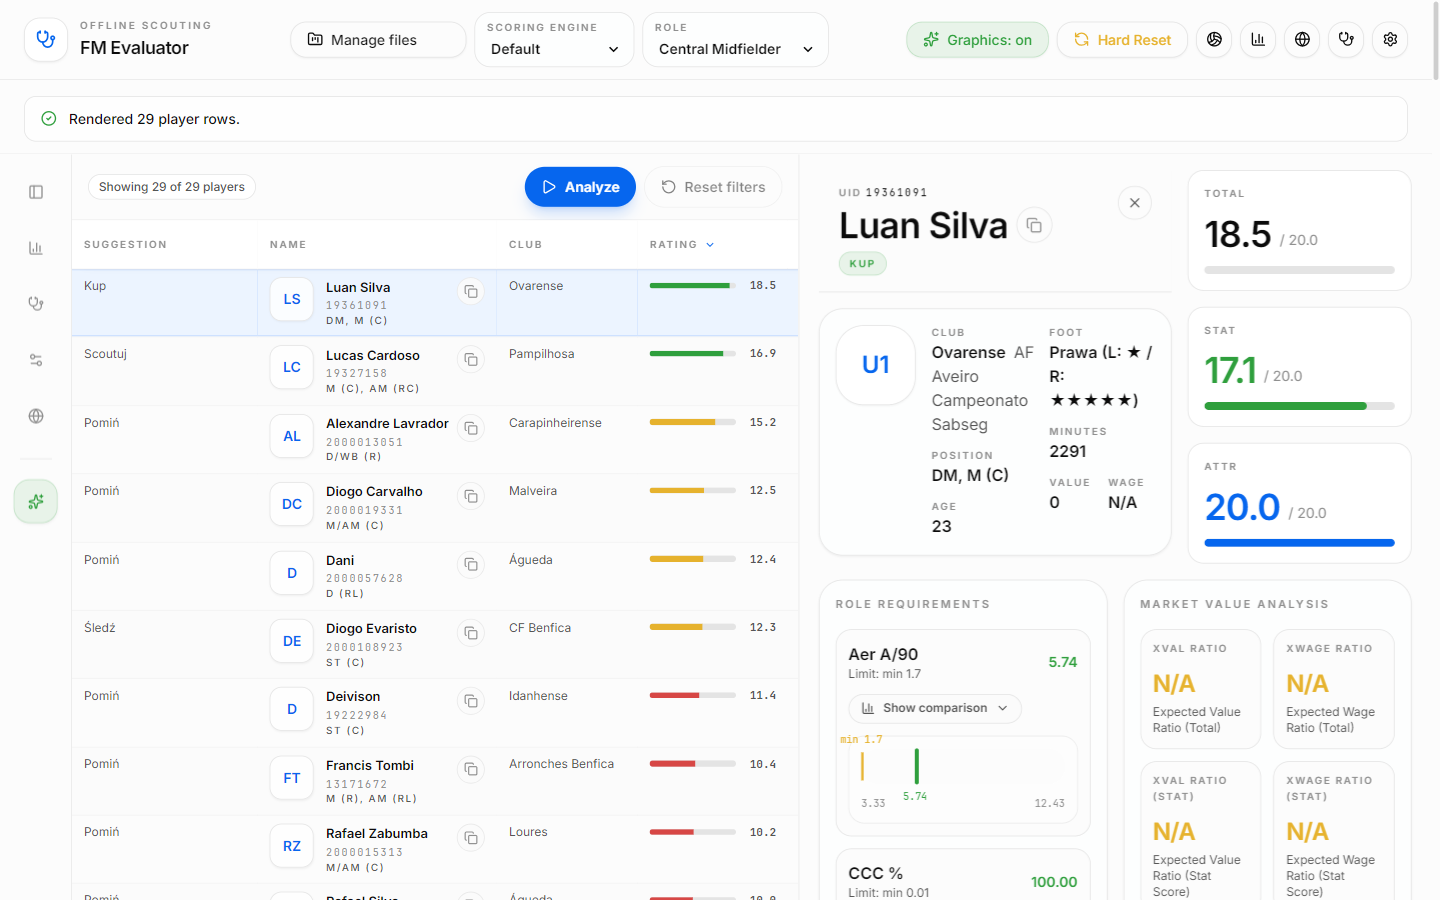
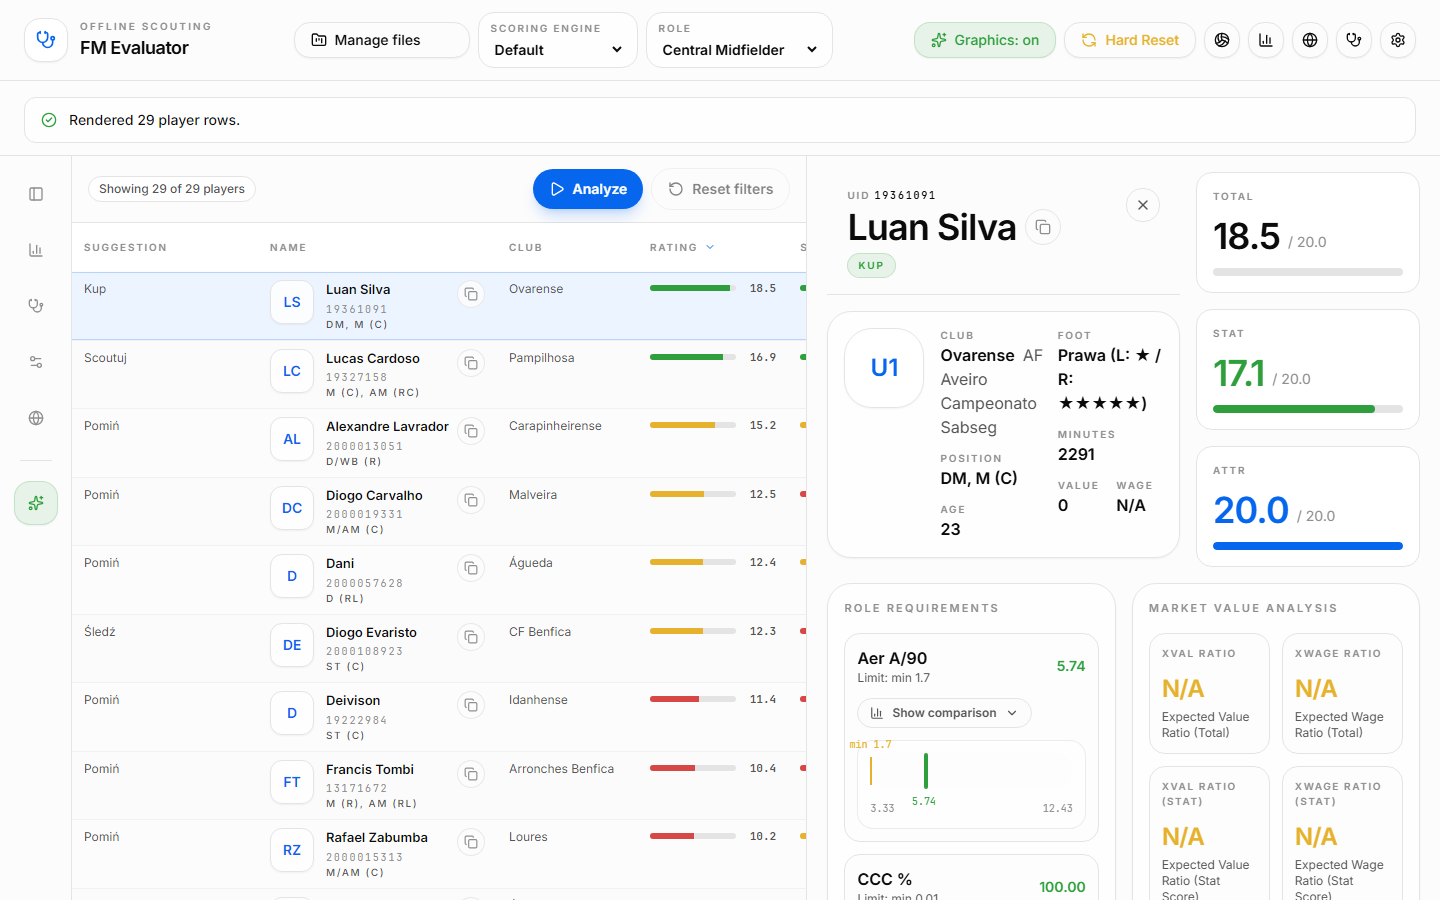
docs(readme): regenerate the screenshots from a script (#64)

diff --git a/e2e/readme-screenshots.spec.ts b/e2e/readme-screenshots.spec.ts
@@ -1,0 +1,44 @@
+// Writes the README screenshots (docs/images/) from a golden fixture, so they can be redone after
+// a visible change: `pnpm run screenshots:readme`. playwright.config.ts leaves it out of ordinary
+// E2E runs.
+import path from 'node:path';
+import { fileURLToPath } from 'node:url';
+
+import { expect, test } from '@playwright/test';
+
+const APP_DIR = path.join(path.dirname(fileURLToPath(import.meta.url)), '..');
+const FIXTURE = path.join(APP_DIR, 'goldens', 'fixtures', 'fm-export-en-uk.html');
+const IMAGES_DIR = path.join(APP_DIR, 'docs', 'images');
+const ROLE = 'MC';
+
+test.use({
+  colorScheme: 'light',
+  locale: 'en-GB',
+  reducedMotion: 'reduce',
+  viewport: { height: 900, width: 1440 }
+});
+
+test('README screenshots', async ({ page }) => {
+  await page.goto('/');
+  // The drop-zone input stays disabled until the app has finished booting.
+  const fileInput = page.locator('#drop-zone-container input[type="file"]');
+  await expect(fileInput).toBeEnabled();
+  await fileInput.setInputFiles(FIXTURE);
+  const rows = page.locator('#table-body tr:not(.virtual-spacer)');
+  await expect(rows.first()).toBeVisible({ timeout: 30_000 });
+
+  await page.locator('#position-select').selectOption(ROLE);
+  await page.locator('#run-analysis').click();
+  await expect(page.locator('th[data-col-id="totalScore"]')).toHaveCount(1);
+  await page.mouse.move(0, 0);
+  await page.screenshot({ animations: 'disabled', path: path.join(IMAGES_DIR, 'ranking.png') });
+
+  await rows.first().click();
+  const drawer = page.locator('[data-testid="player-details-drawer"]');
+  await expect(drawer.locator('[data-testid="player-details-score-cards"]')).toBeVisible();
+  await page.mouse.move(0, 0);
+  await page.screenshot({
+    animations: 'disabled',
+    path: path.join(IMAGES_DIR, 'player-details.png')
+  });
+});

diff --git a/playwright.config.ts b/playwright.config.ts
@@ -1,16 +1,21 @@
 import { defineConfig, devices } from '@playwright/test';
 
-const baseURL = process.env.PLAYWRIGHT_BASE_URL ?? 'http://localhost:5173';
-const useExternalServer = process.env.PLAYWRIGHT_BASE_URL !== undefined;
+// One typed read of the environment (this config gets no Node types).
+const env: Record<string, string | undefined> = process.env;
+const { CI, PLAYWRIGHT_BASE_URL, README_SCREENSHOTS } = env;
+const baseURL = PLAYWRIGHT_BASE_URL ?? 'http://localhost:5173';
+const useExternalServer = PLAYWRIGHT_BASE_URL !== undefined;
 
 export default defineConfig({
   testDir: './e2e',
+  // The README screenshot writer runs only through `pnpm run screenshots:readme`.
+  testIgnore: README_SCREENSHOTS ? [] : ['**/readme-screenshots.spec.ts'],
   fullyParallel: false,
-  forbidOnly: !!process.env.CI,
-  retries: process.env.CI ? 2 : 0,
+  forbidOnly: !!CI,
+  retries: CI ? 2 : 0,
   // One worker per core of the 2-vCPU CI runner; one locally (weak laptop).
-  workers: process.env.CI ? 2 : 1,
-  reporter: process.env.CI ? [['github'], ['html', { open: 'never' }]] : 'list',
+  workers: CI ? 2 : 1,
+  reporter: CI ? [['github'], ['html', { open: 'never' }]] : 'list',
   timeout: 60000,
 
   use: {
